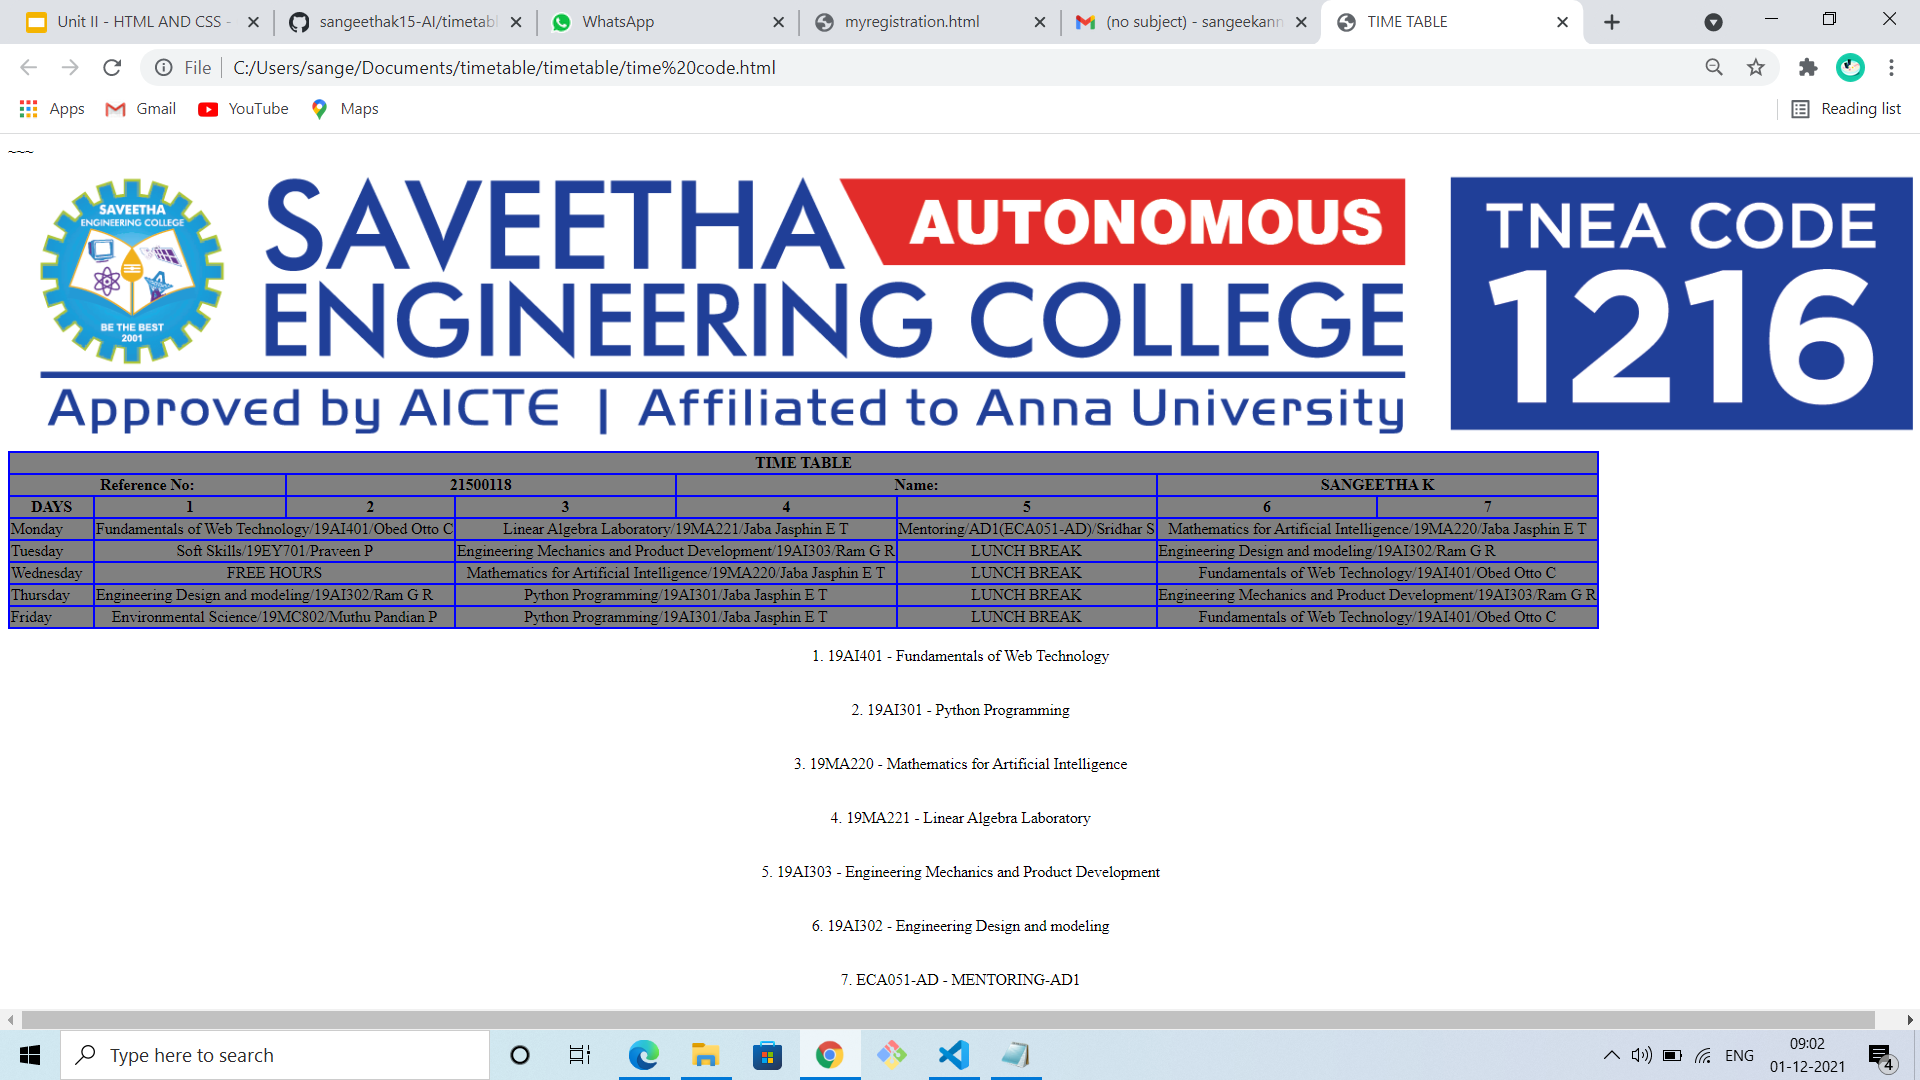
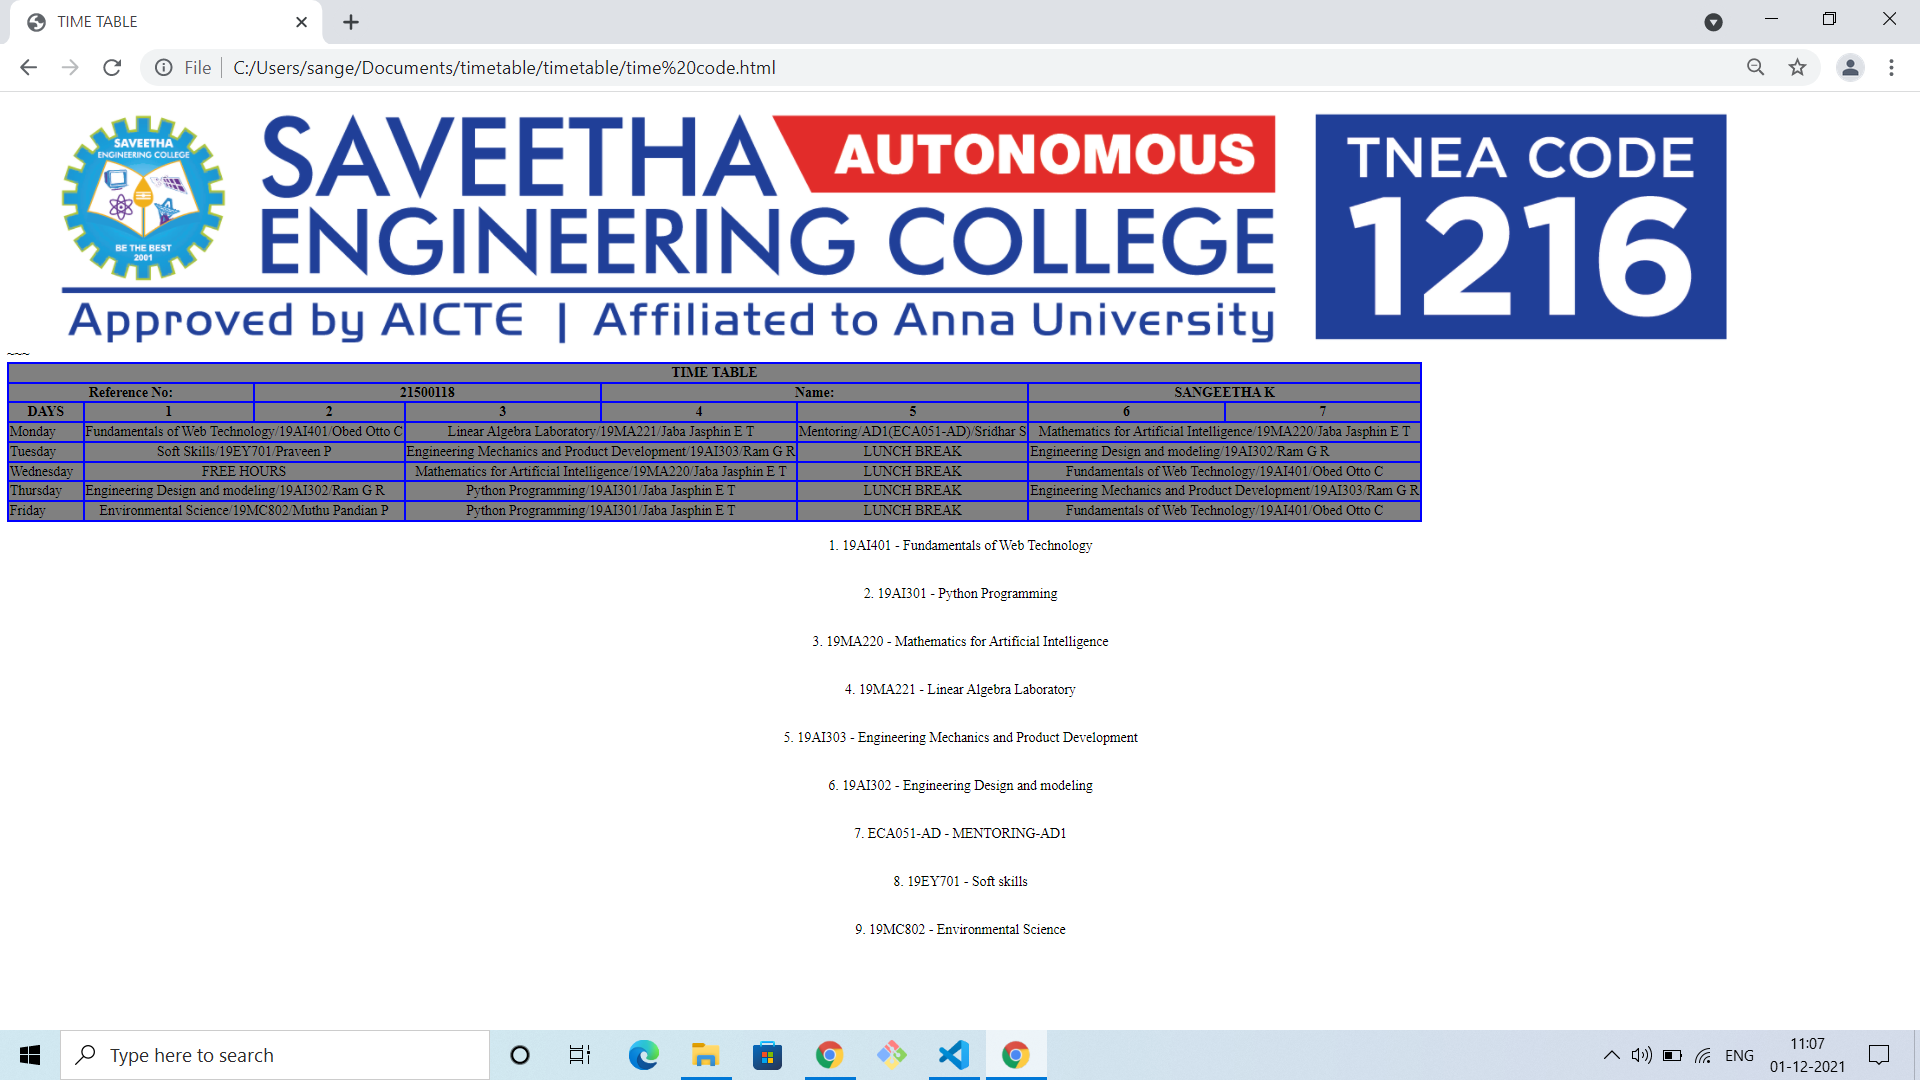
updated the program

diff --git a/time code.html b/time code.html
@@ -78,7 +78,8 @@
     <br><center>5. 19AI303 - Engineering Mechanics and Product Development</center></br>
     <br><center>6. 19AI302 - Engineering Design and modeling</center></br>
     <br><center>7. ECA051-AD - MENTORING-AD1</center></br>
-      
+    <br><center>8. 19EY701 - Soft skills </center></br>  
+    <br><center>9. 19MC802 - Environmental Science </center></br>  
      
    </body>
 </html>

diff --git a/README.md b/README.md
@@ -94,7 +94,9 @@ Execute the program
     <br><center>5. 19AI303 - Engineering Mechanics and Product Development</center></br>
     <br><center>6. 19AI302 - Engineering Design and modeling</center></br>
     <br><center>7. ECA051-AD - MENTORING-AD1</center></br>
-      
+    <br><center>8. 19EY701 - Soft skills </center></br>  
+    <br><center>9. 19MC802 - Environmental Science </center></br>
+    
      
    </body>
 </html>
